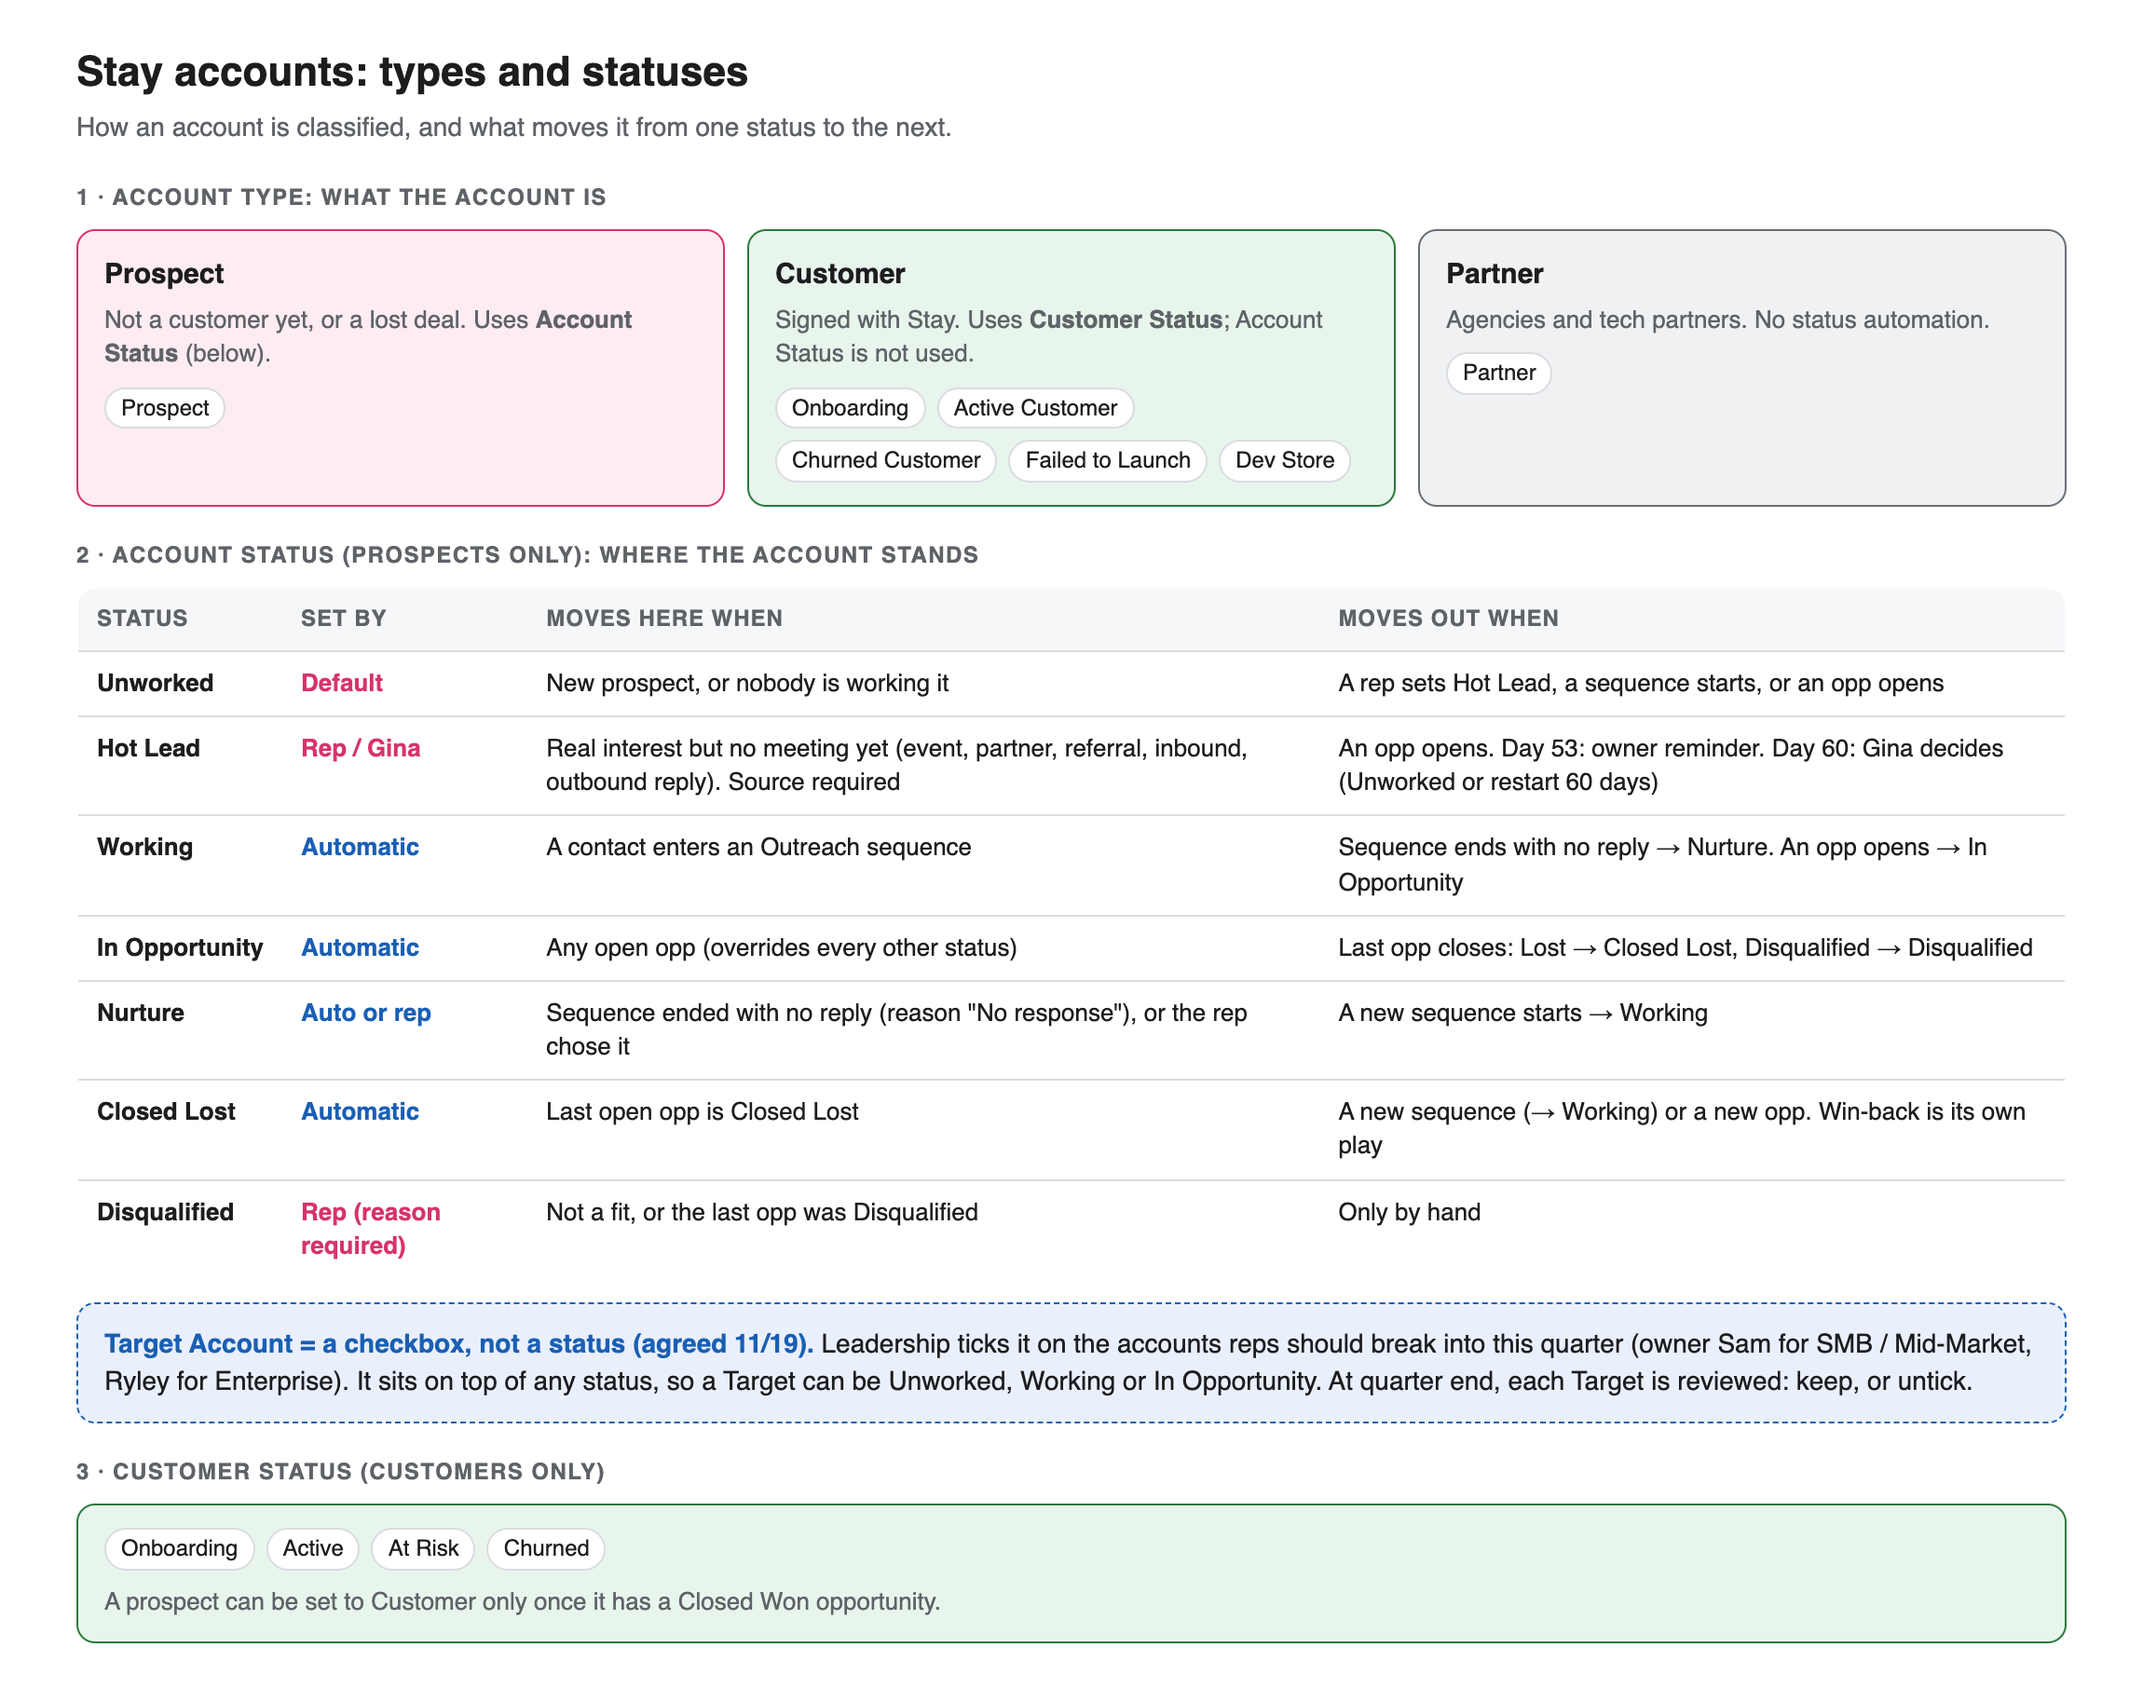
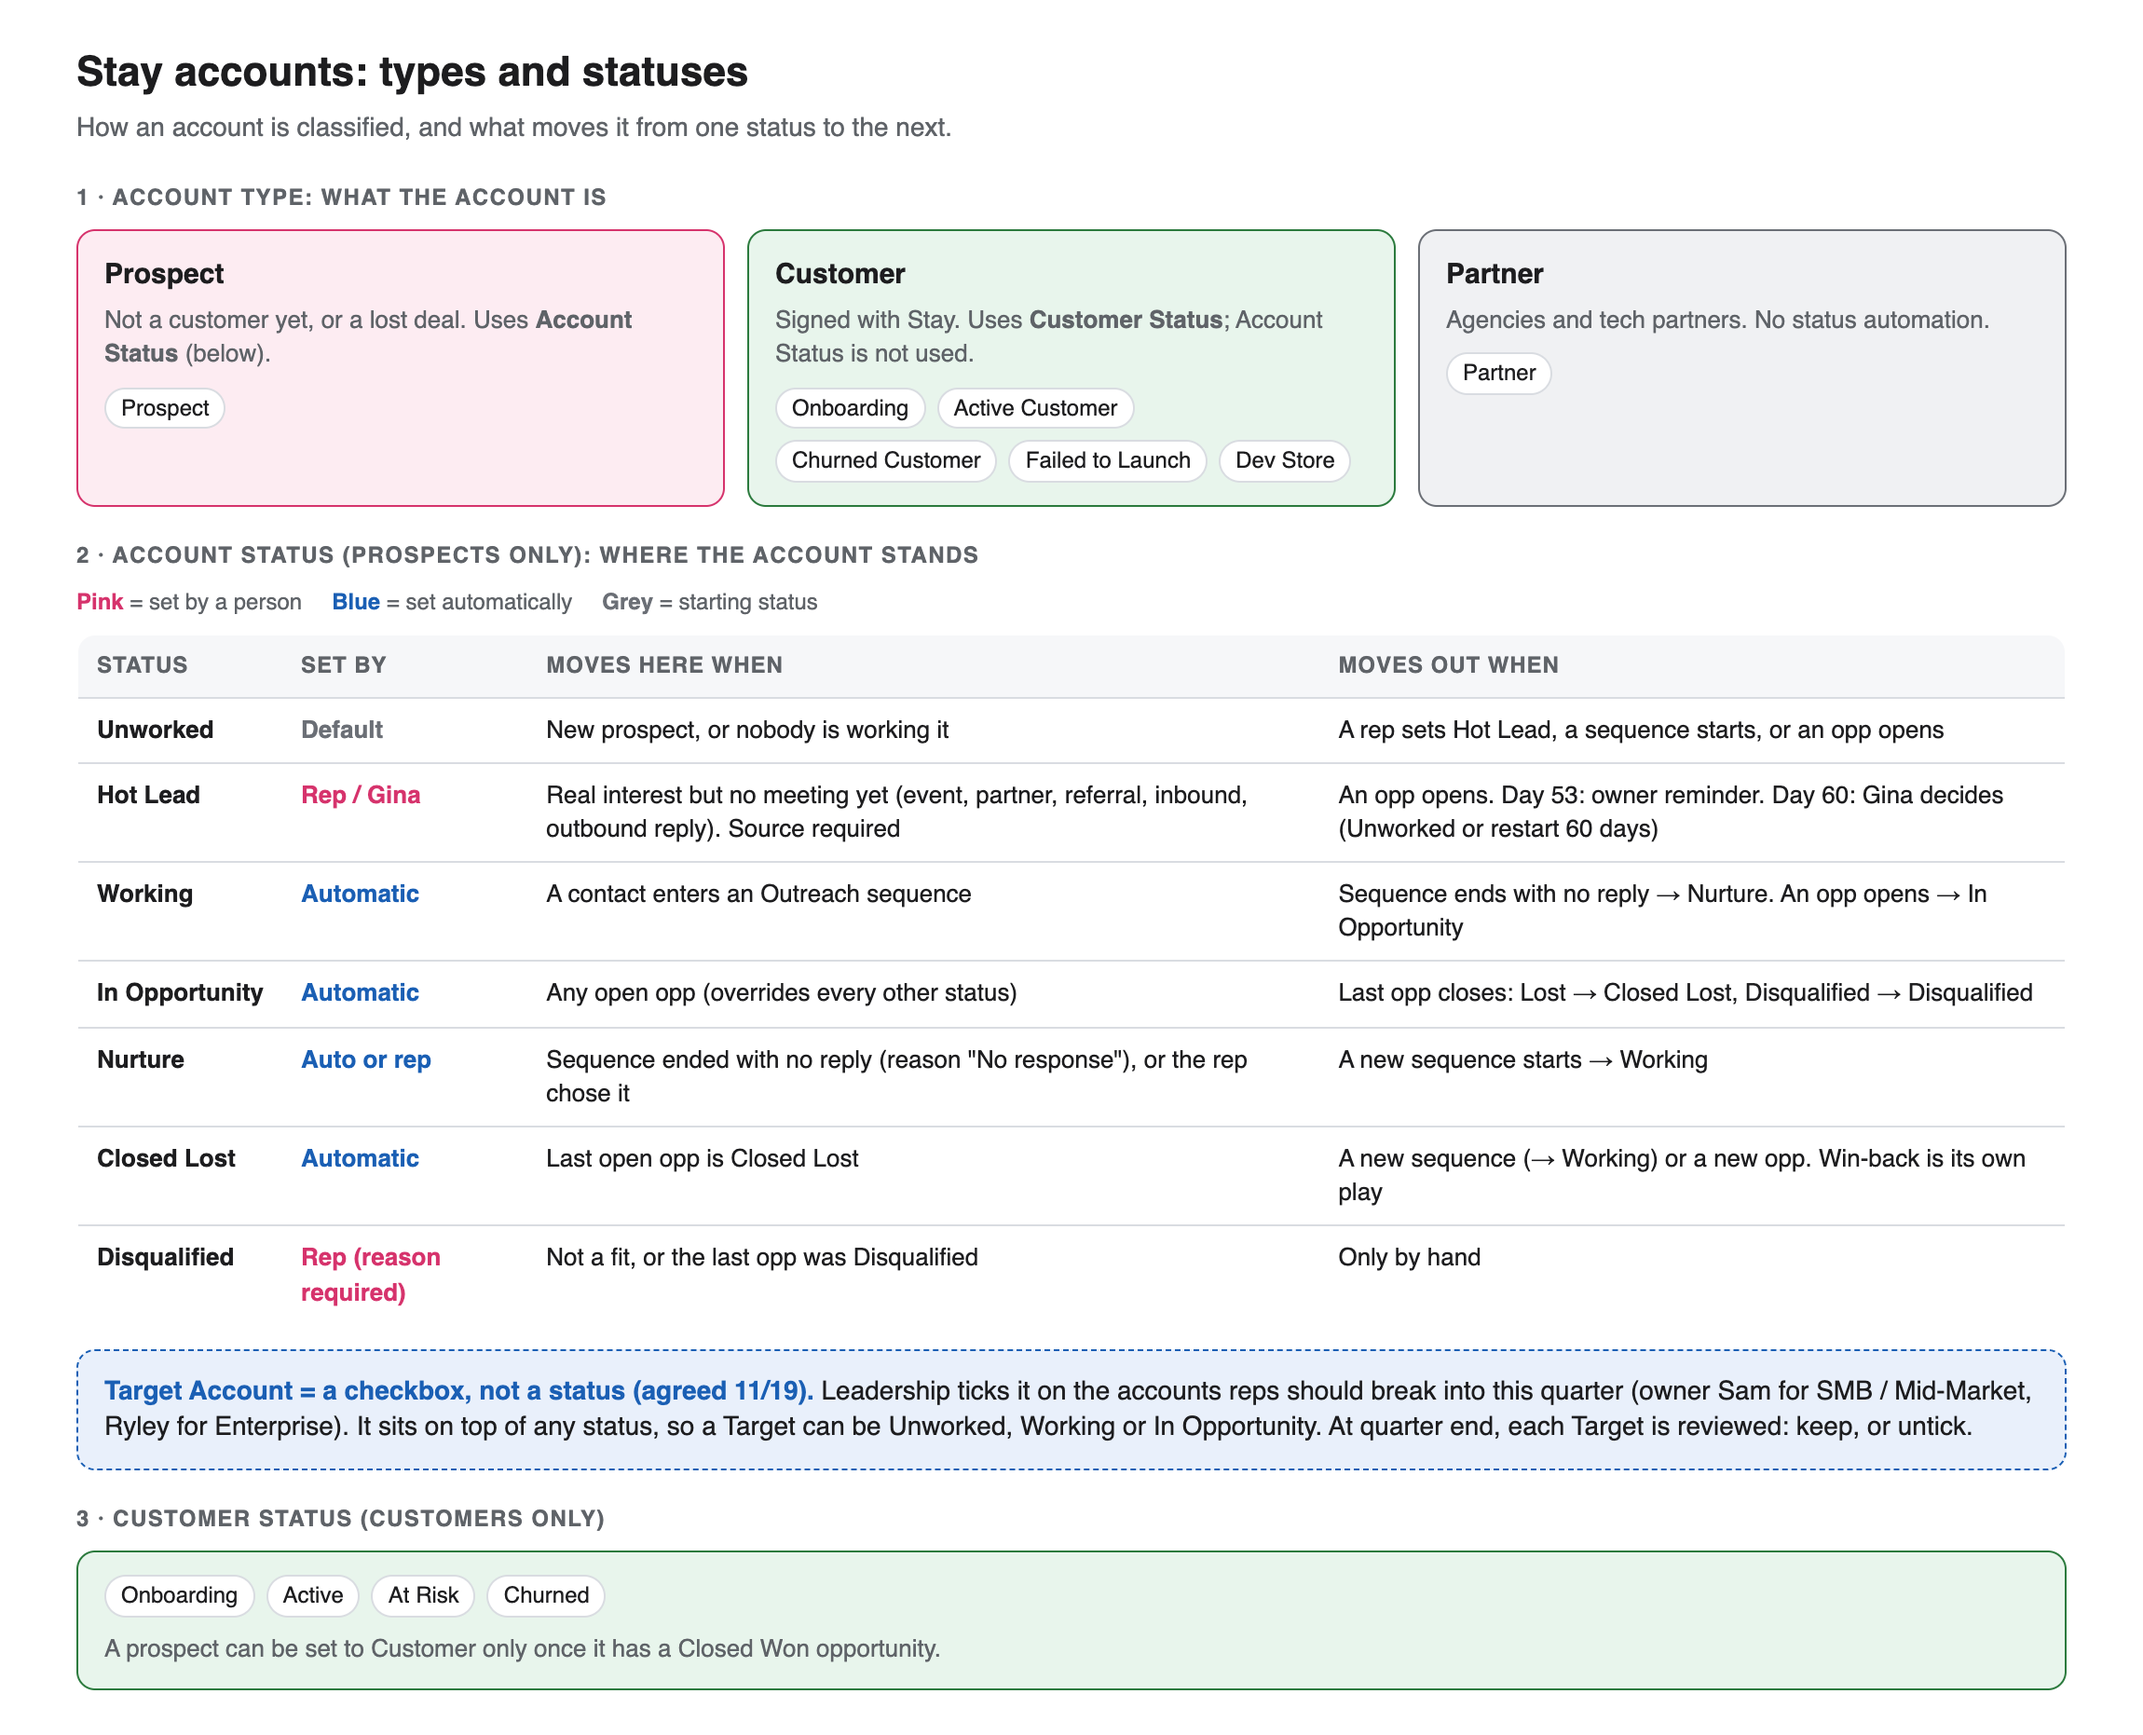
Stay chart: legend

diff --git a/d/stay-status-chart-c05af896/index.html b/d/stay-status-chart-c05af896/index.html
@@ -17,7 +17,7 @@ h1{font-size:22px;margin:0 0 4px}.sub{color:var(--mute);margin:0 0 20px}
 table{width:100%;border-collapse:collapse;background:#fff;border:1px solid var(--line);border-radius:10px;overflow:hidden}
 th,td{text-align:left;padding:8px 10px;border-bottom:1px solid var(--line);vertical-align:top;font-size:13px}
 th{background:var(--box);font-size:12px;text-transform:uppercase;letter-spacing:.04em;color:var(--mute)}
-td.s{font-weight:700;white-space:nowrap}.auto{color:var(--blue);font-weight:600}.man{color:var(--pink);font-weight:600}
+td.s{font-weight:700;white-space:nowrap}.def{color:var(--grey);font-weight:600}.legend{display:flex;gap:16px;font-size:12px;color:var(--mute);margin:0 0 8px}.legend b{font-weight:700}.auto{color:var(--blue);font-weight:600}.man{color:var(--pink);font-weight:600}
 .flag{border:1px dashed var(--blue);background:var(--bluebg);border-radius:10px;padding:12px 14px;margin-top:12px}
 .flag b{color:var(--blue)}
 </style></head><body><div class="wrap">
@@ -35,9 +35,10 @@ td.s{font-weight:700;white-space:nowrap}.auto{color:var(--blue);font-weight:600}
 </div>
 
 <div class="lvl">2 · Account Status (prospects only): where the account stands</div>
+<div class="legend"><span><b class="man">Pink</b> = set by a person</span><span><b class="auto">Blue</b> = set automatically</span><span><b class="def">Grey</b> = starting status</span></div>
 <table>
 <tr><th>Status</th><th>Set by</th><th>Moves here when</th><th>Moves out when</th></tr>
-<tr><td class="s">Unworked</td><td class="man">Default</td><td>New prospect, or nobody is working it</td><td>A rep sets Hot Lead, a sequence starts, or an opp opens</td></tr>
+<tr><td class="s">Unworked</td><td class="def">Default</td><td>New prospect, or nobody is working it</td><td>A rep sets Hot Lead, a sequence starts, or an opp opens</td></tr>
 <tr><td class="s">Hot Lead</td><td class="man">Rep / Gina</td><td>Real interest but no meeting yet (event, partner, referral, inbound, outbound reply). Source required</td><td>An opp opens. Day 53: owner reminder. Day 60: Gina decides (Unworked or restart 60 days)</td></tr>
 <tr><td class="s">Working</td><td class="auto">Automatic</td><td>A contact enters an Outreach sequence</td><td>Sequence ends with no reply → Nurture. An opp opens → In Opportunity</td></tr>
 <tr><td class="s">In Opportunity</td><td class="auto">Automatic</td><td>Any open opp (overrides every other status)</td><td>Last opp closes: Lost → Closed Lost, Disqualified → Disqualified</td></tr>
